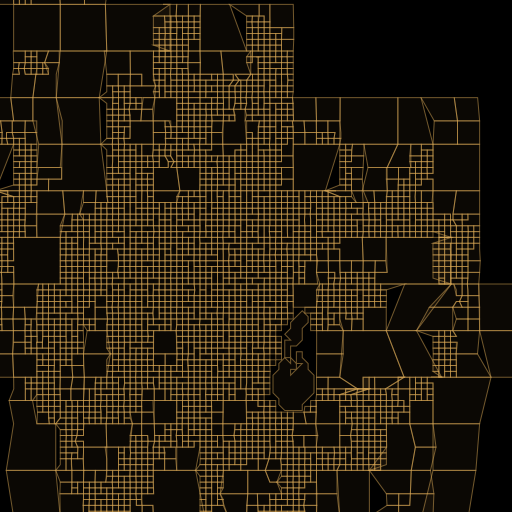
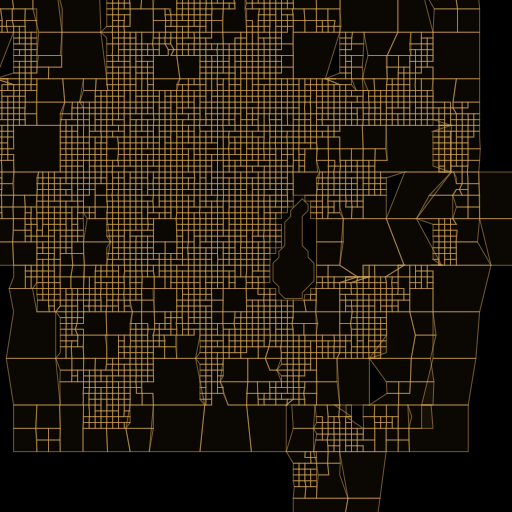
Improving the lake perimeter.

diff --git a/lib/generate-lake.ts b/lib/generate-lake.ts
@@ -3,11 +3,12 @@ import logger = require('../util/logger/index');
 const _ = require('lodash'),
     perlin = require('perlin'),
     Alea = require('alea'),
+    assert = require('assert'),
     color = require('color'),
     turfDistance = require('turf-distance'),
-    turfPointGrid = require('turf-point-grid'),
-    turfConcave = require('turf-concave'),
-    turfFeatureCollection = require('turf-featurecollection');
+    turfPolygon = require('turf-polygon'),
+    turfPoint = require('turf-point'),
+    turfPointGrid = require('turf-point-grid');
 
 interface INoisePoint {
     point: GeoJSON.Feature;
@@ -100,30 +101,34 @@ function generateLake(opts: IGenerateCityOpts): GeoJSON.Feature[] {
             possiblePointsLen: possiblePoints.length
         }, 'Preparing to distinguish new lake points and non lake points');
 
-        const pointsByDistance =
-                _(possiblePoints)
-                    .map((noisePoint: INoisePoint) => {
-                        const distance = _(lakePoints)
+        const {newLakePoints, nonLakePoints} =
+            _.reduce(
+                possiblePoints,
+                (
+                    {newLakePoints, nonLakePoints}: {newLakePoints: INoisePoint[], nonLakePoints: INoisePoint[]},
+                    noisePoint: INoisePoint
+                ) => {
+                    const distance = _(lakePoints)
                             .map(({point}: INoisePoint) => turfDistance(noisePoint.point, point))
-                            .min();
+                            .min(),
 
-                        return _.merge({}, noisePoint, {distance});
-                    }),
+                         noisePointDistance: INoisePointDistance = _.merge({}, noisePoint, {distance}),
+                         shouldAddPointToLake = shouldAddToLake(noisePointDistance);
 
-            newLakePoints = pointsByDistance
-                .filter(shouldAddToLake)
-                .each(({point}: INoisePoint) => {
-                    point.properties.lakeIterationAdded = iterationCount;
-                })
-                .value(),
+                    if (shouldAddPointToLake) {
+                        noisePoint.point.properties.lakeIterationAdded = iterationCount;
 
-            nonLakePoints = pointsByDistance
-                .reject(shouldAddToLake)
-                .each(({point}: INoisePoint) => {
-                    point.properties.lakeIterationsSkipped = point.properties.lakeIterationsSkipped || [];
-                    point.properties.lakeIterationsSkipped.push(iterationCount);
-                })
-                .value();
+                        return {newLakePoints: newLakePoints.concat([noisePoint]), nonLakePoints};
+                    } else {
+                        noisePoint.point.properties.lakeIterationsSkipped =
+                            noisePoint.point.properties.lakeIterationsSkipped || [];
+                        noisePoint.point.properties.lakeIterationsSkipped.push(iterationCount);
+
+                        return {newLakePoints, nonLakePoints: nonLakePoints.concat([noisePoint])};
+                    }
+
+                }, {newLakePoints: [], nonLakePoints: []}
+            );
 
         logger.debug({
             newLakePointsLen: newLakePoints.length, nonLakePointsLen: nonLakePoints.length
@@ -141,22 +146,63 @@ function generateLake(opts: IGenerateCityOpts): GeoJSON.Feature[] {
     }
 
     const {lake, nonLake} = _.mapValues(growLake([maxNoisePoint], nonMaxPoints, 0), toGeoJson),
-        lakeHull = turfConcave(turfFeatureCollection(lake), .01, 'kilometers');
+        lakePerimeter = _(lake)
+            .filter((point: GeoJSON.Feature): boolean => {
+                const uniqDistances = _(lake)
+                    .map((otherPoint: GeoJSON.Point): number => turfDistance(point, otherPoint))
+                    .filter((distance: number) => distance < opts.lake.noiseResolution.distance + 1e-5)
+                    .value()
+                    .length;
 
-    if (!lakeHull) {
-        throw new Error('Invalid parameters passed to turfConcave; lakeHull was undefined.');
+                // tisk tisk
+                point.properties.uniqueDistances = uniqDistances;
+
+                return uniqDistances < 5;
+            })
+            .map('geometry')
+            .map('coordinates')
+            .value();
+
+    function getOrderedLakePerimeter(sortedPoints: number[][], unsortedPoints: number[][]): number[][] {
+        if (!unsortedPoints.length) {
+            return sortedPoints.concat([_.head(sortedPoints)]);
+        }
+
+        if (!sortedPoints.length) {
+            return getOrderedLakePerimeter([_.head(unsortedPoints)], _.tail(unsortedPoints));
+        }
+
+        const mostRecentlyAddedPoint: number[] = _.last(sortedPoints),
+            closestUnsortedPoint = _(unsortedPoints)
+                .sortBy((point: number[]) => turfDistance(turfPoint(point), turfPoint(mostRecentlyAddedPoint)))
+                .first(),
+            unsortedPointsWithoutClosest =
+                _.reject(unsortedPoints, (point: number[]) => _.isEqual(point, closestUnsortedPoint));
+
+        assert(
+            unsortedPoints.length === unsortedPointsWithoutClosest.length + 1,
+            'removing the closest point should have only removed a single element from the list'
+        );
+
+        return getOrderedLakePerimeter(sortedPoints.concat([closestUnsortedPoint]), unsortedPointsWithoutClosest);
     }
 
-    lakeHull.properties.lake = true;
+    const orderedLakePerimeter = getOrderedLakePerimeter([], lakePerimeter);
+
+    logger.debug({orderedLakePerimeter}, 'producted lake perimeter');
+
+    const lakeHull: GeoJSON.Feature = turfPolygon([orderedLakePerimeter]);
+
+    assert(lakeHull, 'Invalid parameters passed to turfConcave; lakeHull was undefined.');
+    logger.debug({lakeHull}, 'produced lake hull');
 
     _.each(lake, (point: GeoJSON.Feature) => {
         point.properties['marker-color'] = color('red').hexString();
         point.properties.chosenForLake = true;
     });
 
-    logger.debug({lakeHull}, 'produced lake hull');
-
-    return [lakeHull]
+    return []
+        .concat(opts.lake.debug.omitLake ? [] : lakeHull)
         .concat(opts.lake.debug.includeNoisePointsInOutput ? nonLake : [])
         .concat(opts.lake.debug.includeLakePointsInOutput ? lake : []);
 }

diff --git a/index.ts b/index.ts
@@ -38,11 +38,12 @@ function iberville(rawOpts: ICreateCityOpts): Q.IPromise<void> {
     logger.debug({geoJson: geoJson}, 'Produced geoJson');
 
     if (errors.length) {
-        const err = <IGeoJsonFormatError> new Error('Bug: invalid GeoJson was produced');
-        err.errors = errors;
-        const deferred = q.defer();
-        deferred.reject(err);
-        return deferred.promise;
+        logger.info({errFileName: opts.errFileName}, 'Writing invalid geojson for debugging');
+        return qFs.write(opts.errFileName + '.geojson', JSON.stringify(geoJson, null, 2)).then(() => {
+            const err = <IGeoJsonFormatError> new Error('Bug: invalid GeoJson was produced');
+            err.errors = errors;
+            throw err;
+        });
     }
 
     const fileWrites: Q.IPromise<void>[] = [];

diff --git a/types.ts b/types.ts
@@ -61,6 +61,7 @@ interface IGenerateCityOpts {
 
 interface ICreateCityOpts extends IGenerateCityOpts {
     outFileName: string;
+    errFileName: string;
 }
 
 interface ILSystem {

diff --git a/README.md b/README.md
@@ -10,10 +10,6 @@ Run `npm start` and copy the output of into http://geojson.io/ to see what was r
 ### TODO / Ideas
 * Add
     * Parks
-    * Rivers
-    * Lakes
-* Make non-square city blocks
-* Tweak params to have more gradations of block sizes
 * Convert all the polygons into lines so the roads are represented in a more intuitive manner
     * Make some roads wider than others
 
